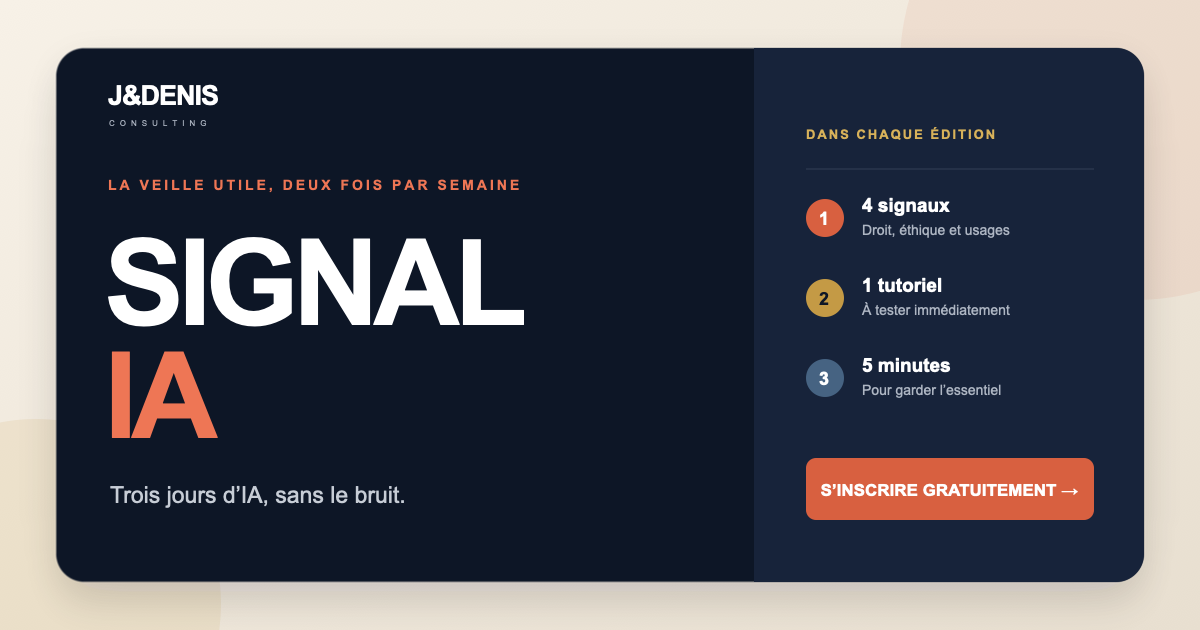
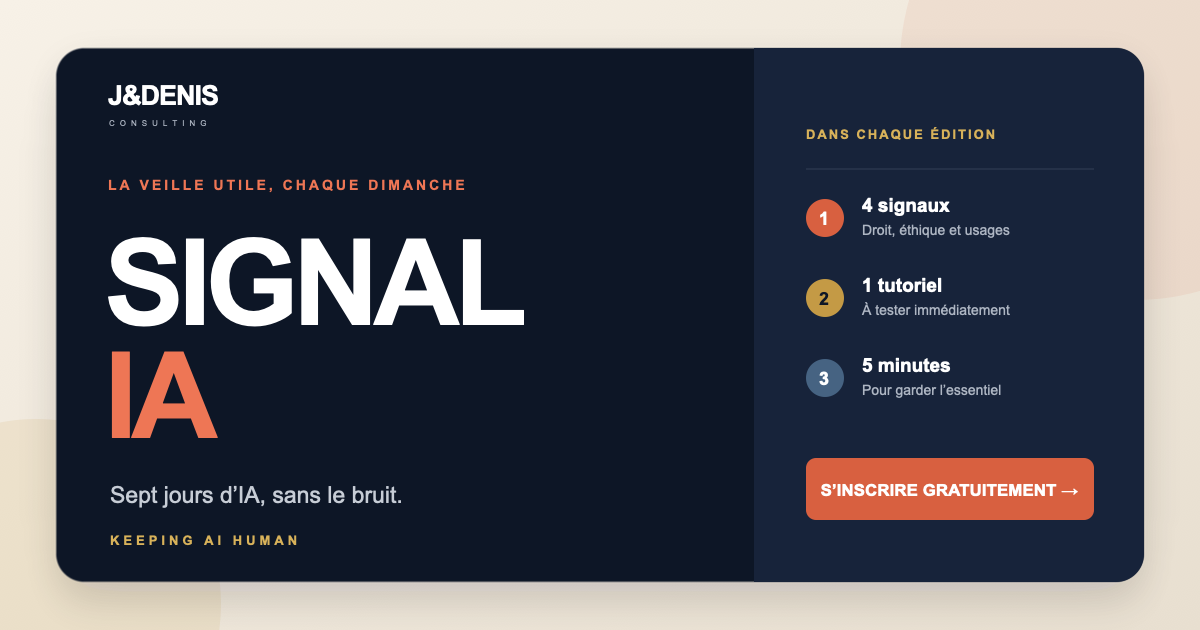
SIGNAL IA hebdomadaire : vignette OG (chaque dimanche, Keeping AI Human), slogans 'Sept jours d'IA', éditions 001 au sitemap ; ombrelle Keeping AI Human aux footers ; agents.md aligné Constitution §3

Changed region(s): [[0.0925, 0.754, 0.3392, 0.8143], [0.2467, 0.2714, 0.4317, 0.3016], [0.0925, 0.8444, 0.2467, 0.8746]]

diff --git a/signal-ia.html b/signal-ia.html
@@ -14,14 +14,14 @@
   <meta property="og:type" content="website">
   <meta property="og:locale" content="fr_FR">
   <meta property="og:site_name" content="JDENIS Consulting">
-  <meta property="og:title" content="SIGNAL IA — Deux jours d’IA, sans le bruit">
+  <meta property="og:title" content="SIGNAL IA — Sept jours d’IA, sans le bruit">
   <meta property="og:description" content="Éthique, droit, usages concrets et un tutoriel opérationnel. une fois par semaine, en français.">
   <meta property="og:url" content="https://jaydenis.com/signal-ia.html">
   <meta property="og:image" content="https://jaydenis.com/signal-ia-og.png">
   <meta property="og:image:width" content="1200">
   <meta property="og:image:height" content="630">
   <meta name="twitter:card" content="summary_large_image">
-  <meta name="twitter:title" content="SIGNAL IA — Deux jours d’IA, sans le bruit">
+  <meta name="twitter:title" content="SIGNAL IA — Sept jours d’IA, sans le bruit">
   <meta name="twitter:description" content="une fois par semaine : les signaux IA utiles et un tutoriel à tester.">
   <meta name="twitter:image" content="https://jaydenis.com/signal-ia-og.png">
   <script type="application/ld+json">
@@ -104,7 +104,7 @@
               </table>
               <div style="margin-top:24px; font-family:Arial,Helvetica,sans-serif; font-size:9px; line-height:14px; font-weight:bold; color:#EE7655; letter-spacing:2.3px; text-transform:uppercase;">Le digest des 48 dernières heures</div>
               <div class="hero-title" style="margin-top:8px; font-family:Arial,Helvetica,sans-serif; font-size:48px; line-height:47px; font-weight:900; color:#FFFFFF; letter-spacing:-2.2px;">SIGNAL<br>IA</div>
-              <div style="margin-top:14px; font-family:Arial,Helvetica,sans-serif; font-size:21px; line-height:26px; font-weight:700; color:#FFFFFF;">Deux jours d’IA,<br><span style="color:#EE7655;">sans le bruit.</span></div>
+              <div style="margin-top:14px; font-family:Arial,Helvetica,sans-serif; font-size:21px; line-height:26px; font-weight:700; color:#FFFFFF;">Sept jours d’IA,<br><span style="color:#EE7655;">sans le bruit.</span></div>
               <div style="margin-top:17px; font-family:Arial,Helvetica,sans-serif; font-size:14px; line-height:21px; color:#C7CDD6;">46 liens parcourus. Quatre signaux retenus.<br>Un tutoriel à essayer avant la prochaine édition.</div>
               <a class="hero-cta" href="#inscription">Recevoir SIGNAL IA gratuitement →</a>
             </td>

diff --git a/signal-ai.html b/signal-ai.html
@@ -14,14 +14,14 @@
   <meta property="og:type" content="website">
   <meta property="og:locale" content="en_GB">
   <meta property="og:site_name" content="JDENIS Consulting">
-  <meta property="og:title" content="SIGNAL AI — Two days of AI, without the noise">
+  <meta property="og:title" content="SIGNAL AI — Seven days of AI, without the noise">
   <meta property="og:description" content="Ethics, law, concrete uses and a hands-on tutorial. Once a week, in English.">
   <meta property="og:url" content="https://jaydenis.com/signal-ai.html">
   <meta property="og:image" content="https://jaydenis.com/signal-ia-og.png">
   <meta property="og:image:width" content="1200">
   <meta property="og:image:height" content="630">
   <meta name="twitter:card" content="summary_large_image">
-  <meta name="twitter:title" content="SIGNAL AI — Two days of AI, without the noise">
+  <meta name="twitter:title" content="SIGNAL AI — Seven days of AI, without the noise">
   <meta name="twitter:description" content="Once a week: the useful AI signals and a tutorial to try.">
   <meta name="twitter:image" content="https://jaydenis.com/signal-ia-og.png">
   <script type="application/ld+json">
@@ -104,7 +104,7 @@
               </table>
               <div style="margin-top:24px; font-family:Arial,Helvetica,sans-serif; font-size:12px; line-height:17px; font-weight:bold; color:#D86040; letter-spacing:1.5px; text-transform:uppercase;">The last 48 hours, distilled</div>
               <div class="hero-title" style="margin-top:8px; font-family:Arial,Helvetica,sans-serif; font-size:48px; line-height:47px; font-weight:900; color:#FFFFFF; letter-spacing:-2.2px;">SIGNAL<br>AI</div>
-              <div style="margin-top:14px; font-family:Arial,Helvetica,sans-serif; font-size:21px; line-height:26px; font-weight:700; color:#FFFFFF;">Two days of AI,<br><span style="color:#D86040;">without the noise.</span></div>
+              <div style="margin-top:14px; font-family:Arial,Helvetica,sans-serif; font-size:21px; line-height:26px; font-weight:700; color:#FFFFFF;">Seven days of AI,<br><span style="color:#D86040;">without the noise.</span></div>
               <div style="margin-top:17px; font-family:Arial,Helvetica,sans-serif; font-size:14px; line-height:21px; color:#CBD5E1;">46 links reviewed. Four signals kept.<br>One tutorial to try before the next edition.</div>
               <a class="hero-cta" href="#inscription">Get SIGNAL AI for free →</a>
             </td>

diff --git a/index-en.html b/index-en.html
@@ -2234,6 +2234,7 @@
             <div class="footer-content">
                 <div class="footer-column">
                     <img src="/img/logo-jdenis-consulting-white.png" alt="JDENIS Consulting" width="812" height="221" class="footer-logo" loading="lazy" decoding="async">
+                    <div style="font-size:12px; letter-spacing:3px; color:#d4a853; margin:6px 0 10px; text-transform:uppercase;">Keeping AI Human</div>
                     <p style="font-size: 13px; color: rgba(255,255,255,0.6); line-height: 1.6;">AI consulting practice — French expertise, delivered internationally. AI audits & diagnostics, ChatGPT/Claude/Gemini corporate training, AI architecture (agents, RAG, MCP), data governance & EU AI Act. Senior consultant, Sciconum-certified trainer and keynote speaker. Engagements in France, Dubai (UAE) and Flanders (Belgium).</p>
                 </div>
 

diff --git a/index.html b/index.html
@@ -2245,6 +2245,7 @@
             <div class="footer-content">
                 <div class="footer-column">
                     <img src="/img/logo-jdenis-consulting-white.png" alt="JDENIS Consulting" width="812" height="221" class="footer-logo" loading="lazy" decoding="async">
+                    <div style="font-size:12px; letter-spacing:3px; color:#d4a853; margin:6px 0 10px; text-transform:uppercase;">Keeping AI Human</div>
                     <p style="font-size: 13px; color: rgba(255,255,255,0.6); line-height: 1.6;">Cabinet de conseil en intelligence artificielle basé à Toulouse. Diagnostic IA, formation ChatGPT/Claude en entreprise, gouvernance data & AI Act, technologies immersives XR. Consultant senior, formateur certifié Sciconum et conférencier. Interventions en Occitanie et dans toute la France.</p>
                 </div>
 

diff --git a/agents.md b/agents.md
@@ -1,5 +1,17 @@
 # agents.md — Agents et Stratégies pour les projets de Jérôme Denis
 
+## Sources de vérité (à lire EN PREMIER — elles priment sur ce fichier)
+- `PLAN_STRATEGIQUE_URGENCE/ORCHESTRATION/CONSTITUTION_JDENIS.md` — les règles (identité, slogans, ton, références, preuves).
+- `PLAN_STRATEGIQUE_URGENCE/ORCHESTRATION/PROFIL_CANONIQUE_JDENIS.md` — les faits (identité, entités, liste blanche des références, preuves chiffrées).
+- Chemin complet : `/Users/jaydenis/Documents/Claude/Projects/PLAN_STRATEGIQUE_URGENCE/ORCHESTRATION/`.
+
+### Règle des références publiables (Constitution §3)
+On ne publie QUE ce qui figure dans les sources officielles (les 4 sites, le CV officiel CV-JD-FR2026-IA5, LinkedIn, les profils freelance). La liste blanche consolidée est dans le PROFIL_CANONIQUE. En particulier :
+- **Autorisés** (figurent au CV) : Groupe TECNALINK (SPELEM, LACLIM, ACERELEC), France Travail, Art Shopping / Carrousel du Louvre, YAPAK, cabinet d'expertise comptable, Gidsenkring Brugge, les 7 écoles ; titres : membre du Collège Numérique France 2030, **Vice-président et administrateur de La Mêlée Numérique**, fondateur de VRJAM, conférences (Cité de l'espace, Laval Virtual, CES). *(L'ancienne interdiction « VP La Mêlée » / TECNALINK de ce fichier est annulée.)*
+- **Interdits** : toute entité ou chiffre absent des sources officielles — ex. « Allier Capital » comme client.
+- **Preuves chiffrées sans source additionnelle** : Louvre (une saison en production, zéro ressaisie) ; SPELEM/TECNALINK (1 047 fiches, 277 k€, 180 équipements / 15 sites) ; saisie ÷30. Tout autre chiffre fort exige une source citée.
+- **Avant toute publication** : passer le contenu au contrôle `jdenis-gardien-charte`. Rien de public/sortant sans validation humaine.
+
 ## Agent 1 : Automatisation Appels d'Offres (AO)
 
 ### Rôle
@@ -43,9 +55,10 @@ Maintenir et faire évoluer le site one-page de Jérôme Denis (consultant IA, f
 - 10 sections : Header, Hero, Services, Expertise, Références, Écoles, À propos, Conférences, Contact, Footer
 
 ### Points de vigilance
-- NE PAS mentionner "Vice-président La Mêlée Numérique"
-- NE PAS inclure Allier Capital ni Technalink dans les clients
-- Certification Sciconum DOIT être mentionnée
+- Références et titres : appliquer la règle §3 de la Constitution (voir « Sources de vérité » en tête de ce fichier). « VP & administrateur de La Mêlée Numérique » et le groupe TECNALINK/SPELEM sont AUTORISÉS (au CV) ; « Allier Capital » reste INTERDIT (absent des sources officielles).
+- Identité publique : « Cabinet de conseil en IA — JDenis Consulting » (jamais « auto-entrepreneur » comme argument public).
+- Signature ombrelle : « Keeping AI Human » ; slogan jaydenis.com : « Automatisez ce qui vous ralentit. Anticipez ce qui vous attend. »
+- Certification Sciconum DOIT être mentionnée (présente sur index.html)
 - Les photos personnelles de conférence ne sont PAS accessibles via upload chat → placeholders avec instructions
 - Logos : préférer les URLs directes (/wp-content/uploads/...) à Clearbit qui est peu fiable pour les PME
 
@@ -88,3 +101,12 @@ Réaliser un audit complet d'un site web (SEO, performance, design, accessibilit
 
 développement du site jaydenis.com 
 Utilise le plugin site-jdenis
+
+
+<claude-mem-context>
+# Memory Context
+
+# [SITE_JDENIS] recent context, 2026-08-26 1:48pm GMT+2
+
+No previous sessions found.
+</claude-mem-context>
